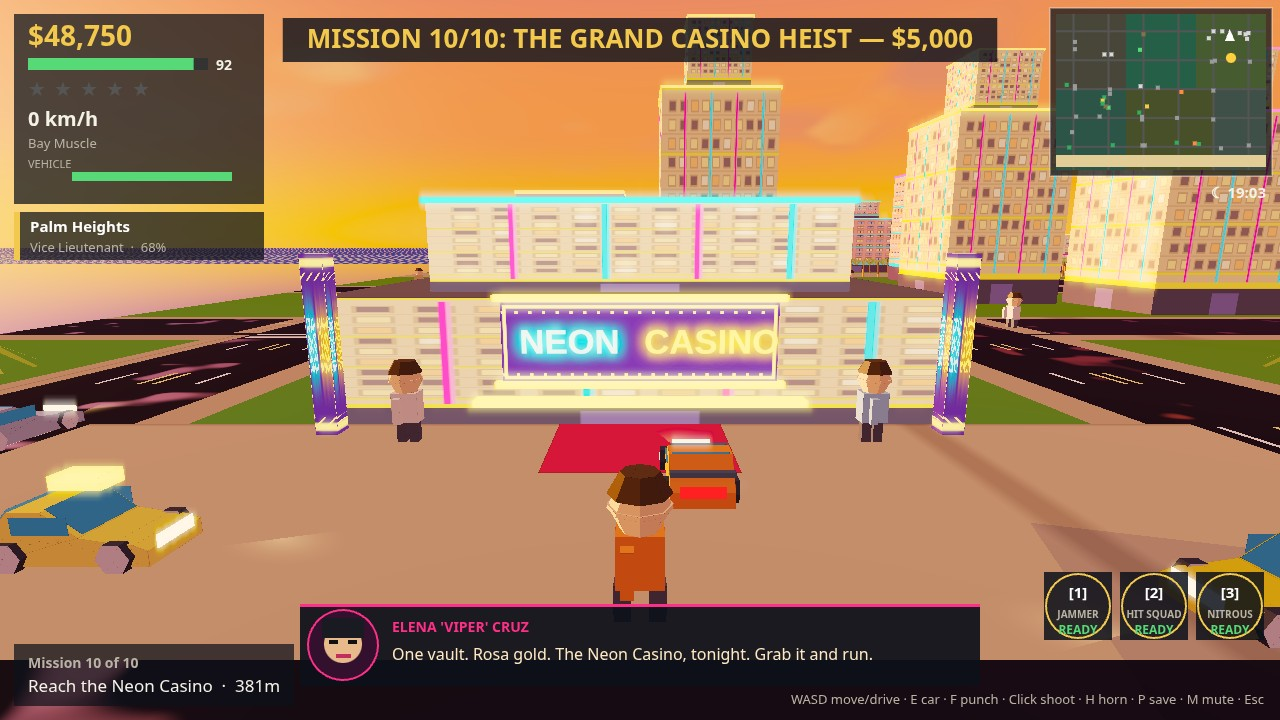
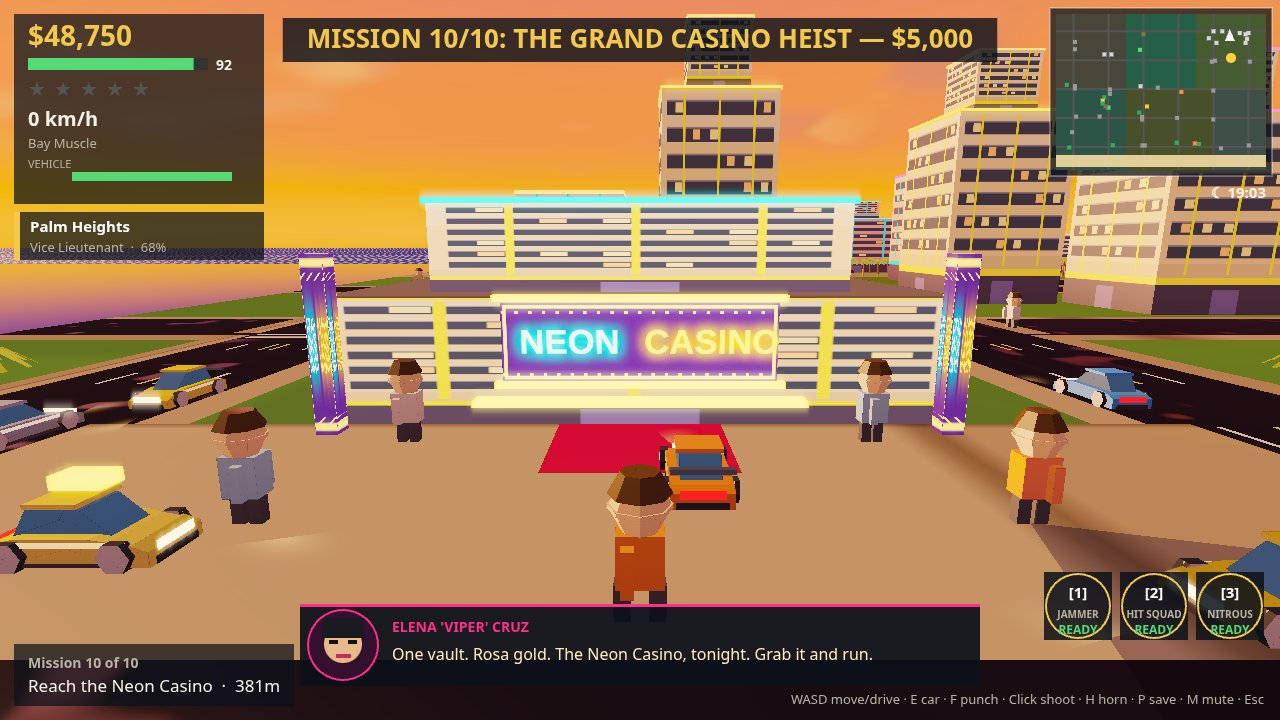
Neon Bay V9 BIG REBUILD: VICE GLOSS — sculpted cars, gradient lighting, glass-band facades, textured ground, fuller palms, sharp sun
- cars: two-prism sculpted body + dark glass cabin + body-color roof plate, gloss flank stripe, skirt, bumpers, round wheels, spoiler
- lighting: lifted sun dir for diffuse, vertical fake-AO, stronger + broad specular, wet-asphalt sun streak narrowed, Reinhard compress kills blowout
- facades: polka-dot windows killed — dark glass bands + lit windows + Art Deco fins + ground-floor awning; atlas speckle for asphalt/sand/grass, slab paving for walks
- sky: V8-A sharp sun disc, glow cut ~15x; post-fx bloom threshold raised 0.82 -> 1.0
- palms: 12 drooping fronds + inner ring + coconuts (droop tuned above race-cam eye level); heli spine rim-light + tail rotor; wreck readable + orange-red flames + darker smoke; searchlight beam narrowed
- staging: drive peds to sidewalk (V8-C), chase weapon wheel hidden, mission plaza +2 cars +2 peds, cover wreck moved onto the road
- diet: boats removed, speckle trimmed; dossier text 162492/163840 (margin 1348, 0 truncated); static 81762/96000 verts
- QA: missions 10/10 PASS, live Mission #1 done, E 5/5, draw 11/frame, 0 errors; 4 shots 1280x720, 145/122/138/161 KiB

diff --git a/game/src/renderer/meshes3d.js b/game/src/renderer/meshes3d.js
@@ -39,31 +39,30 @@ for(const palm of city.palms){
 const lean=((palm.x*7+palm.y*3)%10)/10*.6-.3,lx=Math.sin(lean),lz=Math.cos(lean)*.4;
 m.tb(palm.x+lx*7,20,palm.y+lz*7,lx*.35,1,lz*.35,2.4,1.7,40,tr2,null,U,0,6);
 const cxp=palm.x+lx*16,czp=palm.y+lz*16;
-for(let f=0;f<10;f++){const a=f/10*Math.PI*2+lean,ca=Math.cos(a),sa=Math.sin(a),lc=f%2?lf:lf2,px=-sa,pz=ca,x1=cxp+ca*13,z1=czp+sa*13,x2=cxp+ca*26,z2=czp+sa*26;m.q([cxp+px*3,40,czp+pz*3],[x1+px*3,39,z1+pz*3],[x1-px*3,39,z1-pz*3],[cxp-px*3,40,czp-pz*3],0,1,0,lc,U,0);m.q([x1+px*3,39,z1+pz*3],[x2+px*1.5,30,z2+pz*1.5],[x2-px*1.5,30,z2-pz*1.5],[x1-px*3,39,z1-pz*3],0,1,0,lc,U,0);}
-}
+for(let f=0;f<12;f++){const a=f/12*6.283+lean,ca=Math.cos(a),sa=Math.sin(a),lc=f%2?lf:lf2,px=-sa,pz=ca,x1=cxp+ca*14,z1=czp+sa*14,x2=cxp+ca*24,z2=czp+sa*24;m.q([cxp+px*3,41,czp+pz*3],[x1+px*3,38,z1+pz*3],[x1-px*3,38,z1-pz*3],[cxp-px*3,41,czp-pz*3],0,1,0,lc,U,0);m.q([x1+px*3,38,z1+pz*3],[x2+px*1.5,30,z2+pz*1.5],[x2-px*1.5,30,z2-pz*1.5],[x1-px*3,38,z1-pz*3],0,1,0,lc,U,0);}
+for(let f=0;f<6;f++){const a=f/6*6.283+lean+.5,ca=Math.cos(a),sa=Math.sin(a),x2=cxp+ca*18,z2=czp+sa*18;m.q([cxp-sa*2,44,czp+ca*2],[x2-sa,35,z2+ca],[x2+sa,35,z2-ca],[cxp+sa*2,44,czp-ca*2],0,1,0,lf2,U,0);}
+m.ba(cxp+4,37,czp,2.6,2.2,2.6,X('#8a6f3c'),0);}
 let lamp=0;
 for(const ax of AVENUES)for(const sy of STREETS){lamp++;if(lamp%2===0)continue;m.tb(ax+70,13,sy+70,0,1,0,1.6,1.2,26,[.15,.15,.17],null,U,0,6);m.tb(ax+66,26,sy+70,-.7,.25,0,1,1,11,[.15,.15,.17],null,U,0,5);m.ba(ax+62,27,sy+70,3.5,2.5,3.5,[1,.85,.55],1);for(let z=0;z<3;z++)m.gq(ax-56,sy-78+z*10,ax+56,sy-72+z*10,.2,wh,0);}
 m.gq(0,2624,WORLD.width,2646,.25,viceHex('#8a6f4d'),0);
 const dk=X('#4a3f35');
 for(let s=0;s<3;s++){const bx=800+s*1000;m.b(bx,10,2780,1000,4,26,0,dk,U,0);}
-for(const[bx,bz,by]of[[900,2720,.3],[1500,2720,.15],[2400,2720,-.2]]){m.pr([[-20,0],[18,0],[23,3],[10,5],[-16,5],[-20,2]],8,bx,0,bz,by,X('#e8e2d4'),U,.1);m.pr([[-8,5],[6,5],[8,10],[-6,10]],5,bx,0,bz,by,X('#2f6fd0'),U,.2);}
 return m.slice();}
 function carBody(m,x,z,angle,L,W,col,kind,wheels){
 const yaw=-angle,co=Math.cos(angle),si=Math.sin(angle),hL=L/2,hw=W/2-1;
 const P=(a,y,b)=>[x+co*a-si*b,y,z+si*a+co*b];
-const pts=[[hL,1.5],[hL,6],[L*.42,7.5],[L*.30,8],[L*.10,9.5],[-L*.10,16.5],[-L*.30,16.5],[-L*.44,9.5],[-hL,7],[-hL,1.5]];
-m.pr(pts,hw,x,0,z,yaw,col,U,0);
-const gl2=X('#0e1a26');
-const gN=(ax,ay)=>{const l=Math.hypot(ax,ay);return[ax/l*co,ay/l,-ax/l*si];};
-const g1=gN(7,L*.2),g2=gN(-7,L*.14);
-const off=(a,y,b,nn)=>{const qq=P(a,y,b);return[qq[0]+nn[0]*.8,qq[1]+nn[1]*.8,qq[2]+nn[2]*.8];};
-m.q(off(L*.10,9.5,-(hw-1),g1),off(L*.10,9.5,hw-1,g1),off(-L*.10,16.5,hw-1,g1),off(-L*.10,16.5,-(hw-1),g1),g1[0],g1[1],g1[2],gl2,U,.45);
-m.q(off(-L*.30,16.5,-(hw-1),g2),off(-L*.30,16.5,hw-1,g2),off(-L*.44,9.5,hw-1,g2),off(-L*.44,9.5,-(hw-1),g2),g2[0],g2[1],g2[2],gl2,U,.45);
-for(const s of[-1,1])m.q(P(-L*.28,10.5,s*(hw+.4)),P(L*.06,10.5,s*(hw+.4)),P(L*.06,15.5,s*(hw+.4)),P(-L*.28,15.5,s*(hw+.4)),-si*s,0,co*s,gl2,U,.45);
+m.pr([[hL,1.2],[hL,5.5],[L*.40,7.2],[L*.28,8.2],[L*.16,9],[-L*.30,9],[-L*.42,8],[-hL,6.5],[-hL,1.2]],hw,x,0,z,yaw,col,U,0);
+m.pr([[L*.24,8.2],[L*.06,15.5],[-L*.02,16.2],[-L*.26,16.2],[-L*.36,8.6]],hw-3.5,x,0,z,yaw,[.08,.12,.18],U,.25);
+const rp=P(-L*.10,16.9,0);m.b(rp[0],16.9,rp[2],L*.32,1.4,W-7,yaw,col,U,0);
+const hi=col.map(c=>Math.min(1,c*.5+.5));
+for(const s of[-1,1]){m.q(P(L*.38,6.8,s*(hw+.25)),P(-L*.40,6.8,s*(hw+.25)),P(-L*.40,8.4,s*(hw+.25)),P(L*.38,8.4,s*(hw+.25)),0,.6,s*.8,hi,U,.15);
+m.q(P(L*.36,1.2,s*(hw+.2)),P(-L*.36,1.2,s*(hw+.2)),P(-L*.36,2.6,s*(hw+.2)),P(L*.36,2.6,s*(hw+.2)),0,0,s,[.06,.06,.08],U,0);}
+m.q(P(hL+.3,1.2,-(hw-2)),P(hL+.3,1.2,hw-2),P(hL+.3,3.5,hw-2),P(hL+.3,3.5,-(hw-2)),co,0,si,[.08,.08,.1],U,0);
+m.q(P(-hL-.3,1.2,hw-2),P(-hL-.3,1.2,-(hw-2)),P(-hL-.3,3.5,-(hw-2)),P(-hL-.3,3.5,hw-2),-co,0,-si,[.08,.08,.1],U,0);
 if(wheels)for(const[lx,lz]of[[L*.32,hw+.5],[L*.32,-(hw+.5)],[-L*.32,hw+.5],[-L*.32,-(hw+.5)]]){const w2=P(lx,4.5,lz);m.tb(w2[0],4.5,w2[2],-si,0,co,4.5,4.5,3,[.08,.08,.1],[.75,.75,.78],U,0,6);}
-m.q(P(hL+.2,5,-(hw-3)),P(hL+.2,5,hw-3),P(hL+.2,9,hw-3),P(hL+.2,9,-(hw-3)),co,0,si,[1,.9,.6],U,1);
-m.q(P(-hL-.2,5,hw-3),P(-hL-.2,5,-(hw-3)),P(-hL-.2,9,-(hw-3)),P(-hL-.2,9,hw-3),-co,0,-si,[.9,.1,.1],U,.5);
-if(kind==='muscle'||kind==='sports'){const s2=P(-L*.46,12.5,0);m.b(s2[0],12.5,s2[2],3,1.5,W*.92,yaw,[.08,.08,.1],U,.2);}}
+m.q(P(hL+.2,4.5,-(hw-3)),P(hL+.2,4.5,hw-3),P(hL+.2,7.5,hw-3),P(hL+.2,7.5,-(hw-3)),co,0,si,[1,.9,.6],U,1);
+m.q(P(-hL-.2,4.5,hw-3),P(-hL-.2,4.5,-(hw-3)),P(-hL-.2,7.5,-(hw-3)),P(-hL-.2,7.5,hw-3),-co,0,-si,[.9,.1,.1],U,.5);
+if(kind==='muscle'||kind==='sports'){const s2=P(-L*.46,13.5,0);m.b(s2[0],13.5,s2[2],3,1.5,W*.92,yaw,[.08,.08,.1],U,.2);}}
 export function buildDyn(state,m){
 m.reset();
 const skin=X('#e8b98a'),px=state.player.x,pz=state.player.y;
@@ -93,20 +92,22 @@ for(const b of state.bullets)m.b(b.x,2,b.y,10,2,2,-Math.atan2(b.vy,b.vx),[1,.9,.
 for(const s of state.skids){const dx=s.x-px,dz=s.y-pz;if(dx*dx+dz*dz>1200*1200)continue;m.gq(s.x-7,s.y-2,s.x+7,s.y+2,.2,[.08,.08,.08],0);}
 if(state.objective){const o=state.objective,bob=30+Math.sin(state.time*3)*4,gd=[1,.82,.24];m.q([o.x,bob+14,o.y],[o.x+10,bob,o.y],[o.x,bob-14,o.y],[o.x-10,bob,o.y],0,0,1,gd,U,1);m.q([o.x,bob+14,o.y],[o.x,bob,o.y+10],[o.x,bob-14,o.y],[o.x,bob,o.y-10],1,0,0,gd,U,1);}
 const air=state.air;
-if(air&&air.heli){const h=air.heli,st=Math.floor(state.time*3)%2===0,fx=Math.cos(h.angle),fz=Math.sin(h.angle),lx=-fz,lz=fx,nv=[.18,.21,.34];
+if(air&&air.heli){const h=air.heli,st=Math.floor(state.time*3)%2===0,fx=Math.cos(h.angle),fz=Math.sin(h.angle),lx=-fz,lz=fx,nv=[.26,.30,.46];
 m.ba(h.x,h.z,h.y,36,9,15,nv,.15);
+m.b(h.x,h.z+8.5,h.y,46,2,8,-h.angle,[.92,.92,.95],U,.45);
 m.ba(h.x,h.z+2,h.y,31,2,16,[.92,.92,.94],.4);
-m.ba(h.x+fx*24,h.z+3,h.y+fz*24,14,6,12,X('#0e1a26'),.65);
+m.ba(h.x+fx*24,h.z+2,h.y+fz*24,15,6,13,X('#0e1a26'),.65);
 m.tb(h.x-fx*38,h.z+5,h.y-fz*38,-fx,.08,-fz,5,1.8,45,nv,null,U,.2,6);
 const tx=h.x-fx*60,tz=h.y-fz*60;
 m.tr([tx,h.z+3,tz],[tx-fx*8,h.z+3,tz-fz*8],[tx-fx*4,h.z+13,tz-fz*4],lx,0,lz,nv,U,.2);
 m.tr([tx,h.z+3,tz],[tx-fx*4,h.z+13,tz-fz*4],[tx-fx*8,h.z+3,tz-fz*8],-lx,0,-lz,nv,U,.2);
+m.ba(tx,h.z+6,tz,1.5,6,6,[.3,.3,.35],.3);
 m.tb(h.x,h.z+11,h.y,0,1,0,2.2,2.2,6,[.1,.1,.12],null,U,0,5);
 for(let k=0;k<2;k++){const ra=h.rotor+k*Math.PI/2,bx=Math.cos(ra),bz=Math.sin(ra),px2=-bz,pz2=bx;m.q([h.x+bx*36+px2*1.5,h.z+15,h.y+bz*36+pz2*1.5],[h.x-bx*36+px2*1.5,h.z+15,h.y-bz*36+pz2*1.5],[h.x-bx*36-px2*1.5,h.z+15,h.y-bz*36-pz2*1.5],[h.x+bx*36-px2*1.5,h.z+15,h.y+bz*36-pz2*1.5],0,1,0,[.4,.4,.46],U,.3);}
 for(const s of[-10,10]){m.tb(h.x+lx*s,h.z-11,h.y+lz*s,fx,0,fz,1.2,1.2,60,[.15,.15,.17],null,U,0,5);m.tb(h.x+lx*s,h.z-6,h.y+lz*s,0,1,0,1,1,10,[.15,.15,.17],null,U,0,5);}
 m.ba(h.x+fx*28,h.z-8,h.y+fz*28,4,3,4,[1,.95,.8],1);
 m.ba(tx,h.z+8,tz,3,3,3,st?[1,.2,.2]:[.2,.4,1],1);}
-for(const w of state.wrecks||[])carBody(m,w.x,w.y,w.angle-.22,52,24,[.28,.26,.26],'sedan',false);
+for(const w of state.wrecks||[])carBody(m,w.x,w.y,w.angle-.22,52,24,[.45,.32,.26],'sedan',true);
 if(state.race&&state.race.active){const circ=StreetRaceCircuit.CIRCUITS[state.race.circuit];if(!circ)return m.slice();const cg=circ.gates;for(let i=0;i<cg.length;i++){const g=cg[i],col=i===state.race.gate?[1,.18,.55]:[0,.9,1];for(const s of[-30,30])m.tb(g[0]+s,22,g[1],0,1,0,3,2,44,col,null,U,1,6);m.tb(g[0],44,g[1],1,0,0,2.5,2.5,66,col,null,U,1,5);m.gq(g[0]-33,g[1]-4,g[0]+33,g[1]+4,.3,col,.9);}}
 return m.slice();}
 export function buildAdd(state,m){
@@ -127,11 +128,11 @@ let dn=0;
 for(const pt of state.particles){if(dn>=30)break;const dx=pt.x-p.x,dz=pt.y-p.y;if(dx*dx+dz*dz>1200*1200)continue;const s=pt.size||3;m.gq(pt.x-s,pt.y-s,pt.x+s,pt.y+s,1,X(pt.color||'#ffd23d'),.6);dn++;}
 if(state.objective)vb(state.objective.x,state.objective.y,150,5,[1,.82,.24],.3);
 const air=state.air;
-if(air&&air.heli){const h=air.heli;bm(h.x,h.z-2,h.y,h.spotX,1,h.spotY,10,45,[1,.8,.4],.5);bm(h.x,h.z-2,h.y,h.spotX,1,h.spotY,5,24,[1,.9,.6],.6);m.gq(h.spotX-60,h.spotY-60,h.spotX+60,h.spotY+60,.3,[1,.9,.6],.5);}
-for(const w of state.wrecks||[]){const fl=1+Math.sin(state.time*9+w.x)*.15;m.gq(w.x-46,w.y-46,w.x+46,w.y+46,.35,[1,.32,.06],.5);for(let k=0;k<3;k++){const fx=w.x+(k-1)*9,fw=(26-k*3)*fl,fh=(48-k*6)*fl,fc=k===0?[1,.28,.02]:k===1?[1,.52,.06]:[1,.82,.28];m.q([fx-fw,10,w.y],[fx+fw,10,w.y],[fx+fw,10+fh,w.y],[fx-fw,10+fh,w.y],0,0,1,fc,U,.95);m.q([fx,10,w.y-fw],[fx,10,w.y+fw],[fx,10+fh,w.y+fw],[fx,10+fh,w.y-fw],1,0,0,fc,U,.95);}}
+if(air&&air.heli){const h=air.heli;bm(h.x,h.z-2,h.y,h.spotX,1,h.spotY,12,52,[1,.8,.4],.6);bm(h.x,h.z-2,h.y,h.spotX,1,h.spotY,8,38,[1,.9,.6],.7);m.gq(h.spotX-60,h.spotY-60,h.spotX+60,h.spotY+60,.3,[1,.9,.6],.5);}
+for(const w of state.wrecks||[]){const fl=1+Math.sin(state.time*9+w.x)*.15;m.gq(w.x-60,w.y-60,w.x+60,w.y+60,.35,[1,.32,.06],.6);for(let k=0;k<3;k++){const fx=w.x+(k-1)*9,fw=(32-k*4)*fl,fh=(58-k*7)*fl,fc=k===0?[1,.16,.02]:k===1?[1,.34,.04]:[1,.58,.10];m.q([fx-fw,10,w.y],[fx+fw,10,w.y],[fx+fw,10+fh,w.y],[fx-fw,10+fh,w.y],0,0,1,fc,U,.7);m.q([fx,10,w.y-fw],[fx,10,w.y+fw],[fx,10+fh,w.y+fw],[fx,10+fh,w.y-fw],1,0,0,fc,U,.7);}}
 return m.slice();}
 export function buildSmk(state,m){
 m.reset();
 const p=state.player;
-for(const w of state.wrecks||[]){const dx=w.x-p.x,dz=w.y-p.y;if(dx*dx+dz*dz>1200*1200)continue;const dr=Math.sin(state.time*.7+w.x)*6;for(let k=0;k<5;k++){const sy=22+k*20,sr=16+k*8,sa=.5-k*.06,sx=w.x-10-k*4+dr,sz=w.y-2+k*2,g2=.08+k*.02,sc=[g2,g2,g2+.02];m.q([sx-sr,sy,sz],[sx+sr,sy,sz],[sx+sr,sy+sr*1.6,sz],[sx-sr,sy+sr*1.6,sz],0,0,1,sc,U,sa);m.q([sx,sy,sz-sr],[sx,sy,sz+sr],[sx,sy+sr*1.6,sz+sr],[sx,sy+sr*1.6,sz-sr],1,0,0,sc,U,sa);}}
+for(const w of state.wrecks||[]){const dx=w.x-p.x,dz=w.y-p.y;if(dx*dx+dz*dz>1200*1200)continue;const dr=Math.sin(state.time*.7+w.x)*6;for(let k=0;k<5;k++){const sy=30+k*20,sr=18+k*9,sa=.75-k*.05,sx=w.x-10-k*4+dr,sz=w.y-2+k*2,g2=.03+k*.01,sc=[g2,g2,g2+.02];m.q([sx-sr,sy,sz],[sx+sr,sy,sz],[sx+sr,sy+sr*1.6,sz],[sx-sr,sy+sr*1.6,sz],0,0,1,sc,U,sa);m.q([sx,sy,sz-sr],[sx,sy,sz+sr],[sx,sy+sr*1.6,sz+sr],[sx,sy+sr*1.6,sz-sr],1,0,0,sc,U,sa);}}
 return m.slice();}

diff --git a/game/src/shots.js b/game/src/shots.js
@@ -18,8 +18,8 @@ const drv = (g, av) => {
  while (d < -P) d += P * 2;
  return { ...IDLE, up: true, left: d < -0.08, right: d > 0.08 };
 };
-const ped = (g, x, y, shirt) => {
- g.state.peds.push({ x, y, angle: 0, speed: 60, target: { x: x + 30, y }, down: 0, scared: 0, fleeX: 0, fleeY: 0, radius: 12, shirt: shirt || '#e8e2d4', jogger: false });
+const ped = (g, x, y, shirt, a) => {
+ g.state.peds.push({ x, y, angle: a || 0, speed: 60, target: { x: x + 30, y }, down: 0, scared: 0, fleeX: 0, fleeY: 0, radius: 12, shirt: shirt || '#e8e2d4', jogger: false });
 };
 const sc = (g) => { const s = g.state; s.cash = 48750; s.player.health = 92; s.hurtFlash = 0; s.shake = 0; s.wantedFlash = 0; };
 export function stageShot(name, g, o) {
@@ -48,10 +48,10 @@ export function stageShot(name, g, o) {
   rivals.forEach((c, i) => { c.x = px + (i % 2 === 0 ? -32 : 32); c.y = py + 90 + i * 80; c.angle = H; c.speed = 330; c.raceGate = 0; c.raceLap = 1; c.color = ['#ffd23d', '#2f6fd0', '#ff7a2d'][i % 3]; });
   const ahead = [[1475, 420, 'sedan', H], [1525, 500, 'taxi', -H], [1475, 580, 'van', H], [1525, 660, 'pickup', -H], [1475, 740, 'sedan', H]];
   for (const [x, y, k, a] of ahead) g.spawnParkedCar(k, px + (x - 1500), py + (y - 300), a);
-  ped(g, px - 12, py + 80, '#7fb3d5');
-  ped(g, px + 18, py + 150, '#d4693c');
-  ped(g, px - 78, py + 260, '#f2c94c');
-  ped(g, px + 78, py + 340, '#7fb3d5');
+  ped(g, px - 37, py + 60, '#7fb3d5');
+  ped(g, px + 109, py + 120, '#d4693c', P);
+  ped(g, px - 37, py + 170, '#f2c94c');
+  ped(g, px + 109, py + 200, '#7fb3d5', P);
   s.nearMissStreak = 3; s.nearMissStreakT = 4;
   s.radioToast = { name: 'VICE FM 104.5', until: performance.now() + 60000 };
   s.banner = 'STREET RACE — 3 laps!';
@@ -77,11 +77,11 @@ export function stageShot(name, g, o) {
   const h = s.air.heli;
   if (h) { h.x = 1030; h.y = 420; h.z = 80; h.spotX = 875; h.spotY = 250; h.angle = -0.4; }
   wreck(s, 980, 230, 0.6);
-  for (const [x, y, col, sz] of [[980, 230, '#ff7a2d', 10], [995, 220, '#ffd23d', 8], [970, 245, '#ff3b1f', 9]]) s.particles.push({ x, y, vx: 0, vy: -20, life: 0.5, maxLife: 0.5, color: col, size: sz });
+  for (const [x, y, col, sz] of [[980, 230, '#ff2a08', 16], [995, 220, '#ff5a00', 13], [970, 245, '#e83c00', 14]]) s.particles.push({ x, y, vx: 0, vy: -20, life: 0.5, maxLife: 0.5, color: col, size: sz });
   s.upgrades.glow = 1;
   s.dialogue = ['NBPD Dispatch: SWAT converging on your position!'];
   sc(g); st();
-  return { screen: PL, wheelOpen: true, wheelSlot: 6, wheelPos: { x: 320, y: 400 } };
+  return { screen: PL };
  }
  if (name === 'mission') {
   g.reset(); sm();
@@ -101,11 +101,15 @@ export function stageShot(name, g, o) {
   g.spawnParkedCar('van', 3275, 430, H);
   g.spawnParkedCar('pickup', 2620, 420, H);
   g.spawnParkedCar('limo', 3300, 330, P);
+  g.spawnParkedCar('patrol', 2750, 500, H);
+  g.spawnParkedCar('sports', 3250, 500, -H);
   for (const [x, y] of [[2740, 330], [3260, 330], [2700, 430], [3300, 430], [2700, 250], [3300, 260]]) g.city.palms.push({ x, y });
   ped(g, 2900, 430, '#7fb3d5');
   ped(g, 3100, 430, '#e8e2d4');
   ped(g, 2950, 700, '#c2a06a');
   ped(g, 3000, 300, '#d4693c');
+  ped(g, 2880, 350, '#ff7a2d');
+  ped(g, 3120, 350, '#7fb3d5');
   s.banner = 'MISSION 10/10: THE GRAND CASINO HEIST — $5,000';
   s.bannerTimer = 30;
   sc(g); st();
@@ -123,13 +127,13 @@ export function stageShot(name, g, o) {
  rf(g, 2, IDLE);
  sp.x = 1500; sp.y = 1800; sp.angle = 0; sp.speed = 420;
  const staged = [sp];
- for (const [x, y, a] of [[1740, 1772, 0], [1790, 1828, 0], [1660, 1770, 0]]) { const c = g.spawnPatrolCar('patrol'); c.x = x; c.y = y; c.angle = a; c.speed = 380; staged.push(c); }
+ for (const [x, y, a] of [[1740, 1772, 0], [1790, 1828, 0], [1700, 1855, 0]]) { const c = g.spawnPatrolCar('patrol'); c.x = x; c.y = y; c.angle = a; c.speed = 380; staged.push(c); }
  s.cars = s.cars.filter((c) => staged.includes(c));
  s.cops = [];
  for (const [x, y] of [[1560, 1900], [1620, 1700]]) { const c = g.spawnFootCop(); c.x = x; c.y = y; }
  const h = s.air.heli;
  if (h) { h.x = 1700; h.y = 1880; h.z = 70; h.spotX = 1500; h.spotY = 1800; h.angle = 0.5; }
- wreck(s, 1620, 1745, 0.6);
+ wreck(s, 1640, 1800, 0.6);
  s.upgrades.glow = 1;
  s.dialogue = ['Fixer: Five stars, Viper. Lose them before the meet — or make it loud.'];
  ped(g, 1560, 1700, '#7fb3d5');

diff --git a/game/src/renderer/textures3d.js b/game/src/renderer/textures3d.js
@@ -12,10 +12,11 @@ const g=c.getContext('2d');
 const F=(col,x,y,w,h)=>{g.fillStyle=col;g.fillRect(x,y,w,h);};
 const walls=['#dfb48c','#d47a6a','#cfa06e','#b98a5e'],trims=['#ff2d78','#00e5ff','#ffd23d','#ff7a2d'];
 for(let t=0;t<4;t++){const x0=t*256;F(walls[t],x0,0,256,256);
-for(let r=0;r<9;r++){const y=18+r*21;F('rgba(0,0,0,.16)',x0,y+14,256,2);if(r%3===2)F(trims[t],x0,y+15,256,3);
-for(let q=0;q<10;q++){const k=((t*13+r*31+q*17)%100)/100,wx=x0+10+q*24;F('rgba(0,0,0,.28)',wx-2,y-2,17,14);F(k<.34?'#ffd27a':k<.5?'#ff9d5c':k<.62?'#ffe9b0':t===1?'rgba(120,170,220,.5)':'rgba(24,18,36,.6)',wx,y,13,10);if(t===1){F('rgba(10,16,26,.85)',wx,y,13,2);F('rgba(10,16,26,.85)',wx+5,y,2,10);}}}
-if(t===2)for(let q=0;q<4;q++){F(q%2?'#ff2d78':'#00e5ff',x0+34+q*56,8,5,206);F('rgba(255,255,255,.35)',x0+34+q*56,8,2,206);}
-F(trims[t],x0,214,256,8);F('rgba(12,10,22,.9)',x0,222,256,34);F('#3a2f4a',x0+104,228,48,28);F(trims[t],x0,0,256,5);}
+F('rgba(255,255,255,.12)',x0,0,256,64);F('rgba(0,0,0,.14)',x0,190,256,66);
+for(let r=0;r<6;r++){const y=16+r*30;F('rgba(8,12,22,.92)',x0+12,y,232,17);F('rgba(255,255,255,.22)',x0+12,y,232,2);
+for(let q=0;q<6;q++){const k=((t*13+r*31+q*17)%100)/100;if(k<.38)F(k<.2?'#ffd27a':'#ff9d5c',x0+20+q*38,y+3,16,11);}}
+for(let q=0;q<3;q++)F(trims[t],x0+52+q*76,8,5,196);
+F(trims[t],x0,208,256,9);F('rgba(12,10,22,.9)',x0,217,256,39);F('#3a2f4a',x0+104,224,48,32);F(trims[t],x0,0,256,5);}
 F('#160b26',512,256,448,128);
 g.strokeStyle='#f2c94c';g.lineWidth=5;g.strokeRect(518,262,436,116);g.fillStyle='#f2c94c';
 for(let i=0;i<20;i++){F('#f2c94c',536+i*22,269,5,5);F('#f2c94c',536+i*22,371,5,5);}
@@ -25,13 +26,20 @@ g.shadowColor='#00e5ff';g.fillStyle='#8ef4ff';g.fillText('NEON',430,338);
 g.shadowColor='#ff9d00';g.fillStyle='#ffd23d';g.fillText('CASINO',660,338);
 g.restore();g.shadowBlur=0;
 F('#33302e',0,256,256,256);
+F('rgba(255,255,255,.07)',0,256,256,10);F('rgba(0,0,0,.25)',0,500,256,12);
+F('#4a4642',24,300,40,26);F('#4a4642',180,340,52,30);F('#5d5852',90,420,36,24);
 F('#fff',256,256,64,64);
 F('#1e1d28',0,512,256,256);
+for(let i=0;i<160;i++)F(i%3?'rgba(255,255,255,.05)':'rgba(0,0,0,.22)',(i*37)%256,512+(i*53)%256,2,2);
+for(let i=0;i<6;i++)F('rgba(255,255,255,.03)',(i*97)%256,512+(i*61)%256,60,14);
 F('#b8ab98',256,512,256,256);
-g.strokeStyle='rgba(0,0,0,.28)';g.lineWidth=2;
+for(let i=0;i<4;i++)for(let j=0;j<4;j++)F((i+j)%2?'rgba(0,0,0,.13)':'rgba(255,255,255,.09)',256+i*64,512+j*64,64,64);
+g.strokeStyle='rgba(0,0,0,.45)';g.lineWidth=3;
 for(let i=0;i<=4;i++){g.beginPath();g.moveTo(256+i*64,512);g.lineTo(256+i*64,768);g.stroke();g.beginPath();g.moveTo(256,512+i*64);g.lineTo(512,512+i*64);g.stroke();}
 F('#e8cf9a',512,512,256,256);
+for(let i=0;i<160;i++)F(i%2?'rgba(0,0,0,.08)':'rgba(255,255,255,.09)',512+(i*41)%256,512+(i*67)%256,2,2);
 F('#5d8a48',768,512,256,256);
+for(let i=0;i<40;i++)F(i%2?'rgba(0,0,0,.12)':'rgba(255,255,255,.06)',768+(i*53)%256,512+(i*89)%256,14+(i%3)*8,10+(i%2)*8);
 gl.pixelStorei(gl.UNPACK_FLIP_Y_WEBGL,true);
 const tex=gl.createTexture();gl.bindTexture(gl.TEXTURE_2D,tex);
 gl.texImage2D(gl.TEXTURE_2D,0,gl.RGBA,gl.RGBA,gl.UNSIGNED_BYTE,c);
